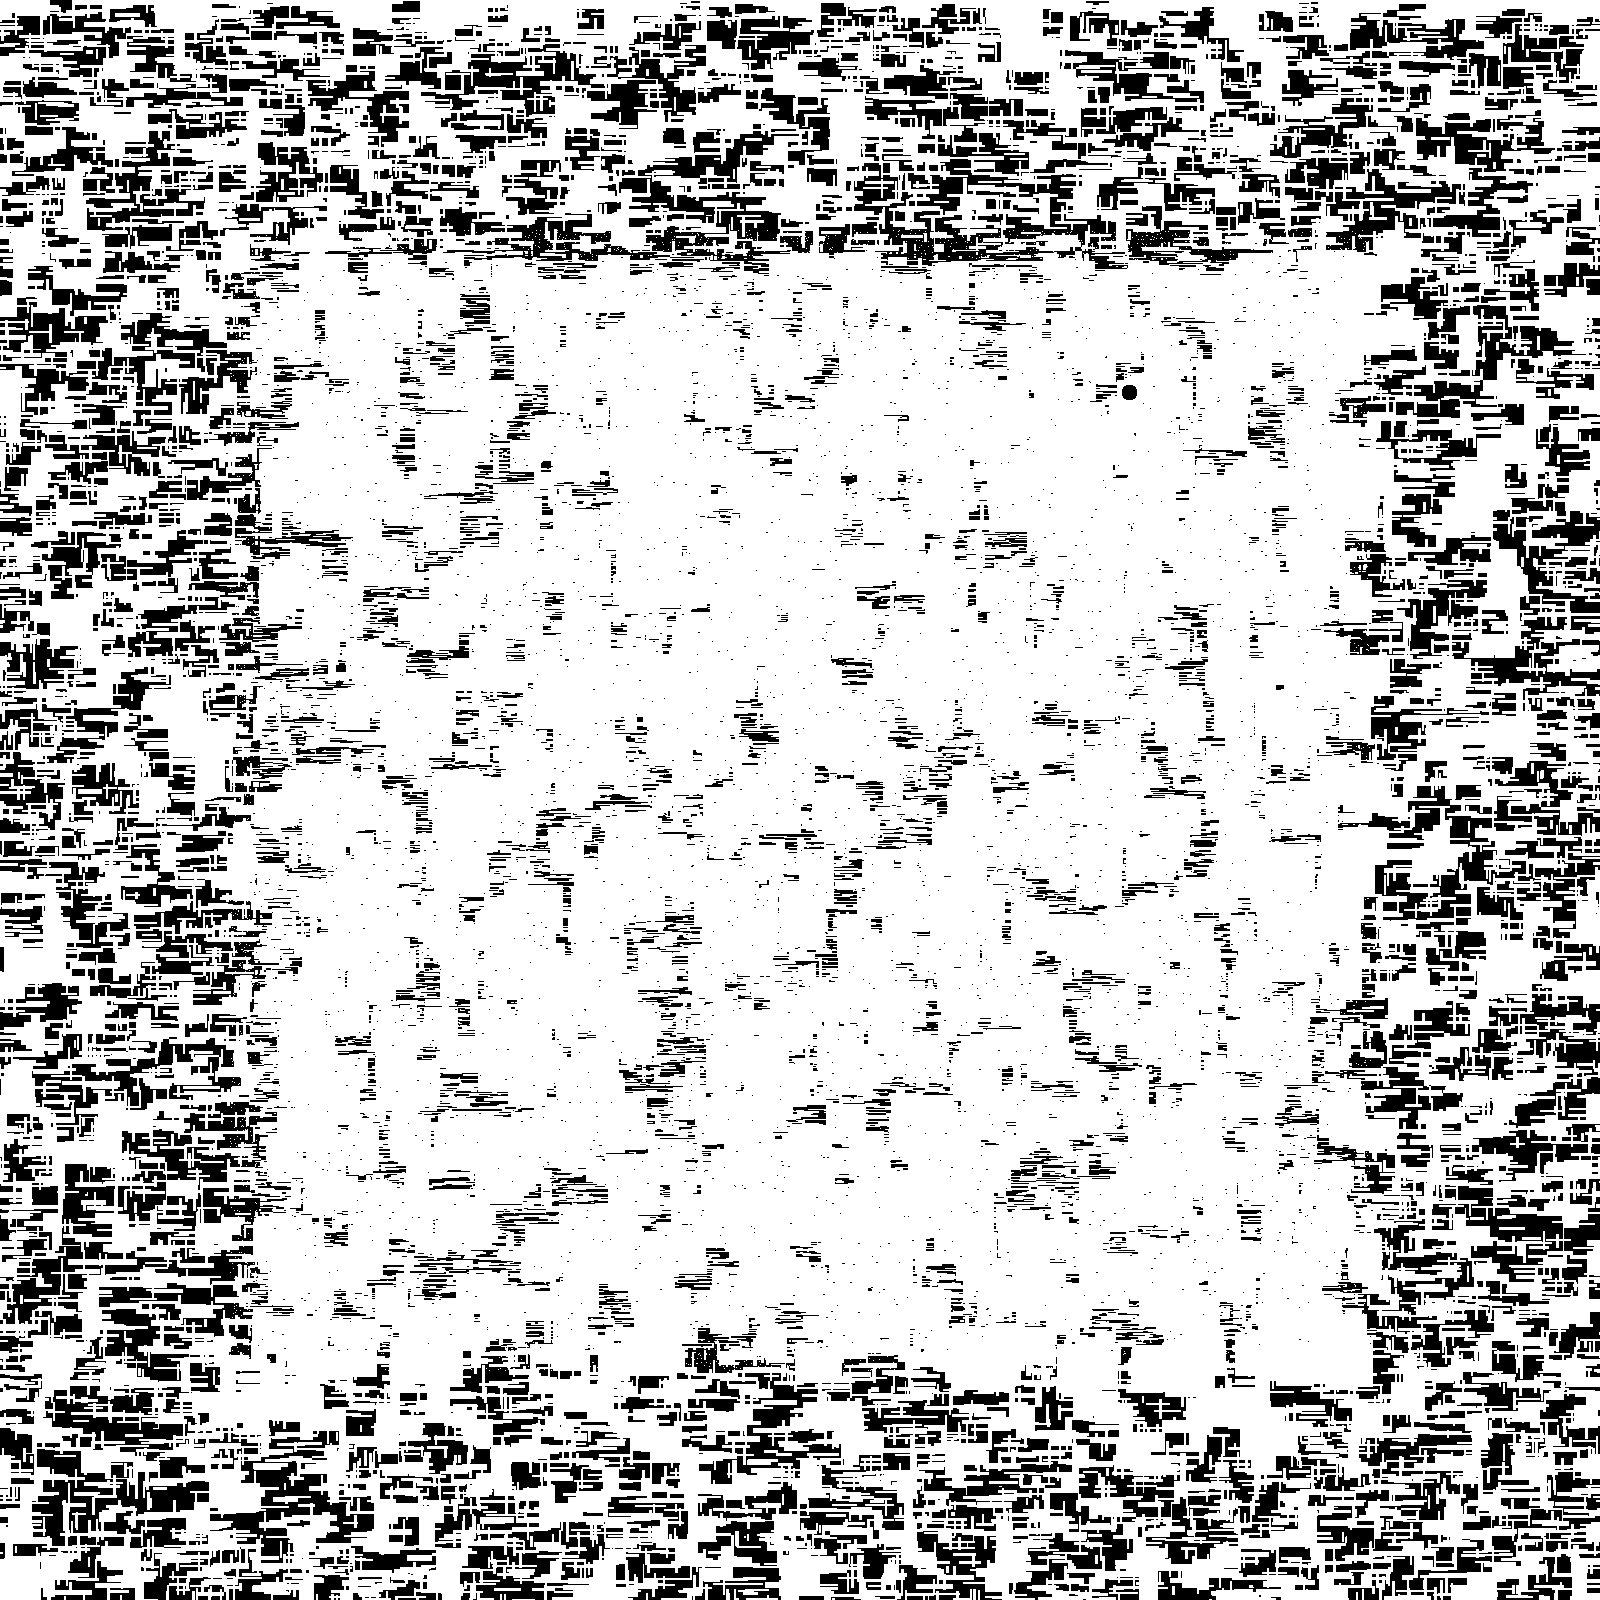
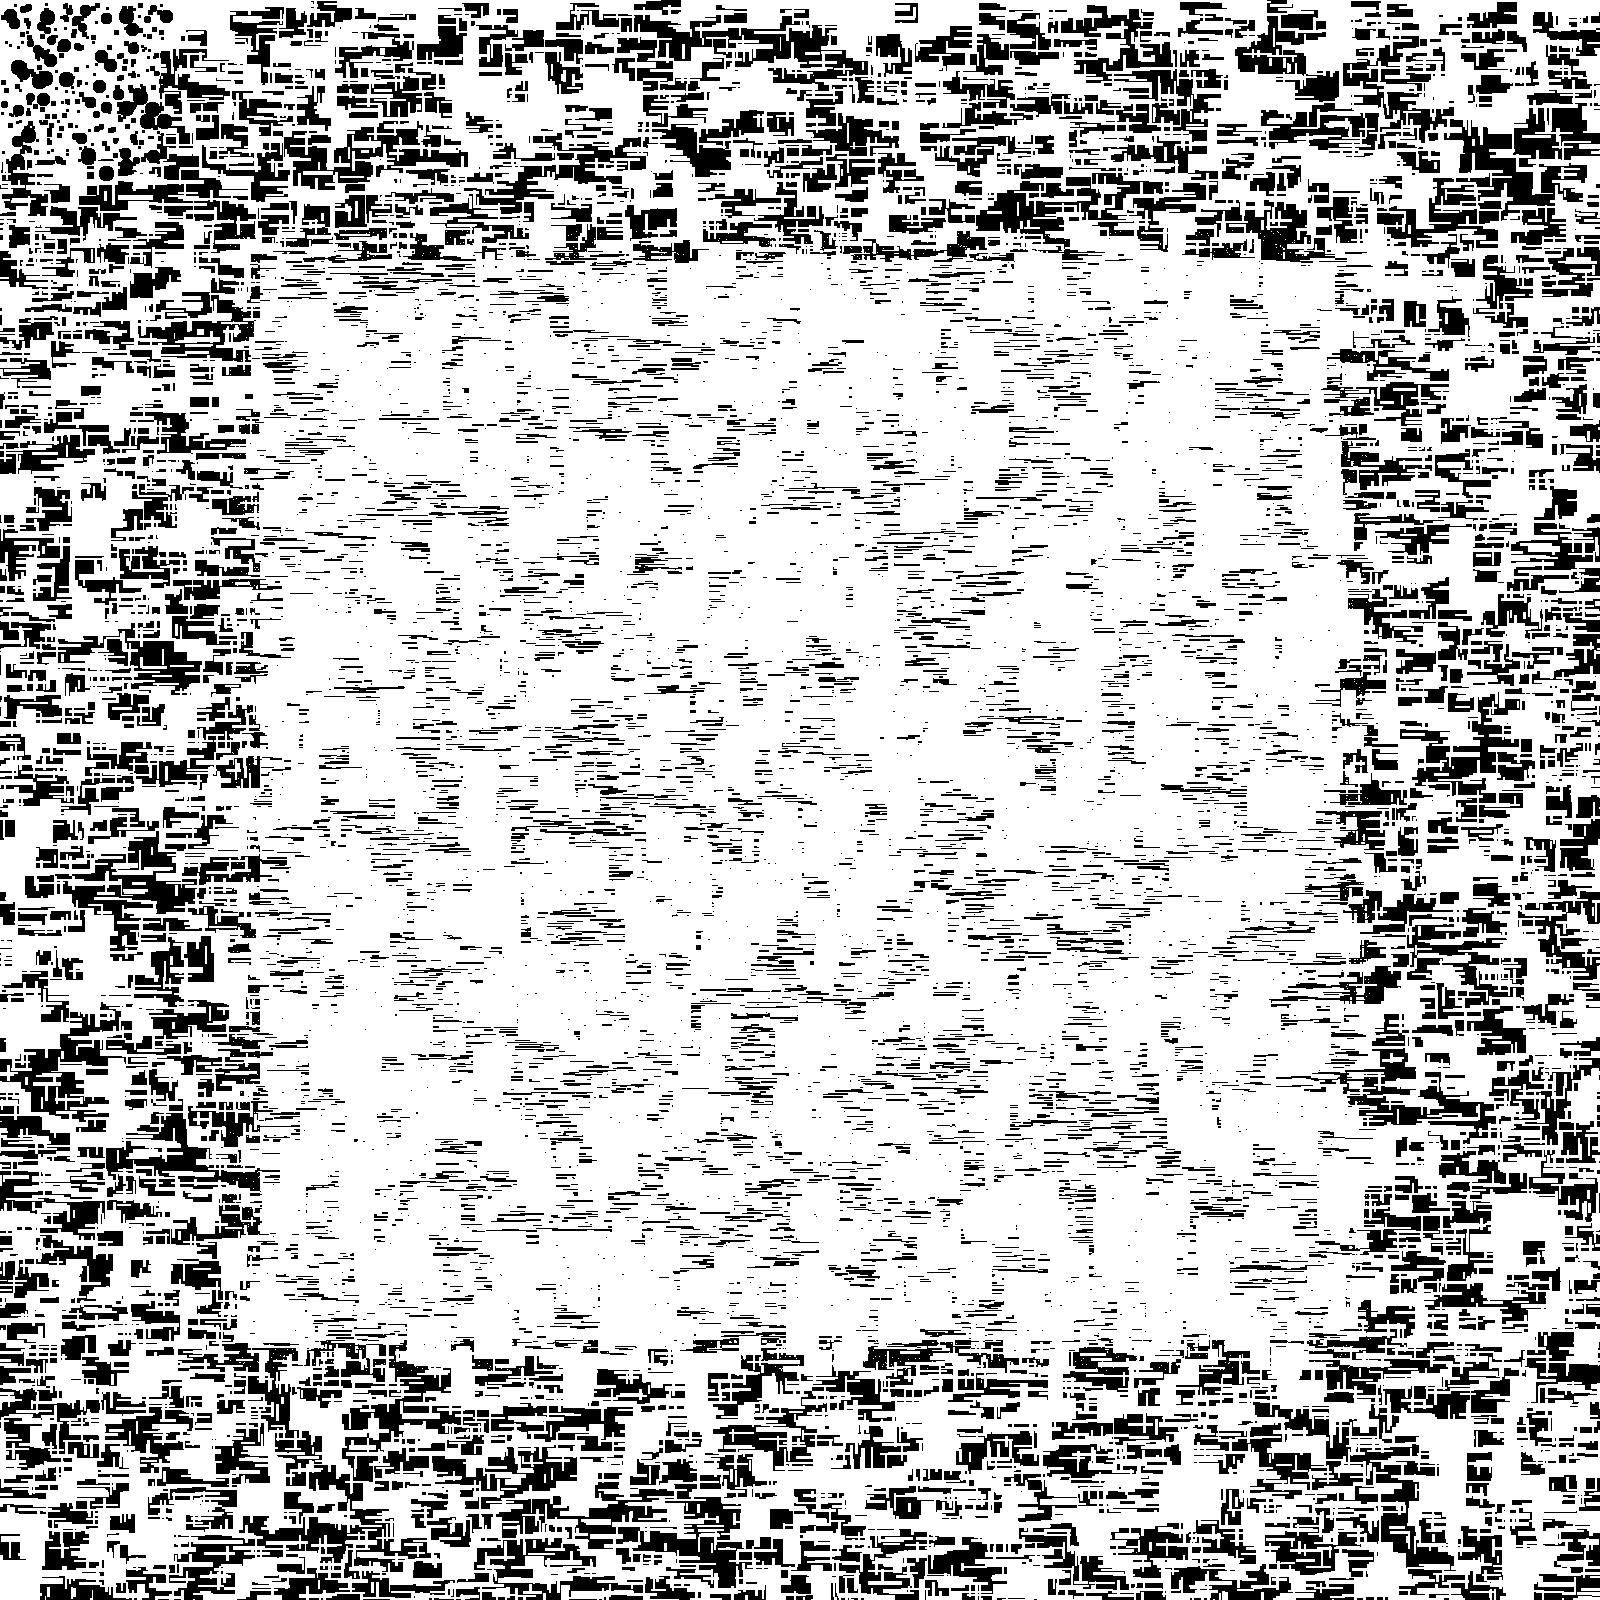
map changes

diff --git a/map.js b/map.js
@@ -55,7 +55,8 @@ exports.Map.prototype = {
   	this.map = [];
 	},
 	randomTerrain: function randomTerrain(numb, pos_xMin, pos_xMax, pos_yMin, pos_yMax, size_xMin, size_xMax, size_yMin, size_yMax, colourMin, colourMax) {
-		var num = Math.floor(this.mapSize/numb);
+		var TSize = (pos_xMax - pos_xMin)*(pos_yMax - pos_yMin);
+    var num = Math.floor(TSize/numb);
   	for (var y = 0; y < num; y++) {
   		var Position_x = Math.floor(Math.random()*(pos_xMax-pos_xMin+1)+pos_xMin);
   		var Position_y = Math.floor(Math.random()*(pos_yMax-pos_yMin+1)+pos_yMin);
@@ -96,6 +97,23 @@ exports.Map.prototype = {
   		}
   	}
 	},
+  circle: function circle(numb,pos_xMin, pos_xMax, pos_yMin, pos_yMax, circleRadiusMin, circleRadiusMax, colourMin, colourMax) {
+    var TSize = (pos_xMax - pos_xMin)*(pos_yMax - pos_yMin);
+    var num = Math.floor(TSize/numb);
+    for (var y = 0; y < num; y++) {    
+      var Position_x = Math.floor(Math.random()*(pos_xMax-pos_xMin+1)+pos_xMin);
+      var Position_y = Math.floor(Math.random()*(pos_yMax-pos_yMin+1)+pos_yMin);
+      var radius = Math.floor(Math.random()*(circleRadiusMax-circleRadiusMin)+circleRadiusMin);
+      for (var z = 0; z < 2*radius; z++){
+        for (var i = 0; i < 2*radius; i++){
+          if(Math.sqrt((z-radius)*(z-radius)+(i-radius)*(i-radius)) < radius){
+            var circleColour = Math.floor(Math.random()*(colourMax-colourMin)+colourMin);
+            this.map[Position_x+Position_y*ret+z+i*ret] = circleColour;
+          }
+        }
+      }
+    }
+  },
   ring: function ring(pos_xMin, pos_xMax, pos_yMin, pos_yMax, minRadius, maxRadius, colourMin, colourMax) {
     var Position_x = Math.floor(Math.random()*(pos_xMax-pos_xMin+1)+pos_xMin);
     var Position_y = Math.floor(Math.random()*(pos_yMax-pos_yMin+1)+pos_yMin);
@@ -137,25 +155,29 @@ exports.Map.prototype = {
     this.randomTerrain(750, 0, ret, 0, ret, 24, 38, 4, 6, 0, 0);
     this.randomTerrain(50, 230, ret-230, 230, ret-230, 1, 1, 1, 1, 0, 0);
     this.makeTerrain(260, 260, ret-520, ret-520, 0, 0);
+  //Fire Kingdom
+    this.makeTerrain(0, 0, 160, 160, 0, 0);
+    this.circle(300,0, 160, 0, 160, 2, 9, 17, 45);
+    this.circle(100,0, 160, 0, 160, 2, 4, 17, 45);
   // Center Part of the Map
   	this.randomTerrain(100,250, ret-250 ,250 , ret-250, 3, 30, 1, 2, 17, 45);
   	this.randomTerrain(1000,250, ret-250 ,250 , ret-250, 3, 30, 3, 30, 0, 0);
   	this.randomTerrain(700,250, ret-250 ,250 , ret-250, 1, 10, 1, 1, 17, 45);
-    this.randomTerrain(2500,250, ret-250 ,250 , ret-250, 30, 50, 30, 50, 0, 0); //Large Voids
+    this.randomTerrain(2500,250, ret-280 ,250 , ret-280, 30, 50, 30, 50, 0, 0); //Large Voids
     this.randomTerrain(1000,250, ret-250 ,250 , ret-250, 1, 2, 1, 1, 17, 45);
   //Corner Colours
     this.colouring(0.3, 0, 250, 0, 250, 1, 4);
     this.colouring(0.6, 0, 175, 0, 175, 1, 4);
     this.colouring(1, 0, 100, 0, 100, 1, 4);
-    this.colouring(0.3, ret-250, ret, 0, 250, 31, 34);
-    this.colouring(0.6, ret-175, ret, 0, 175, 31, 34);
+    this.colouring(0.3, ret-250, ret-1, 0, 250, 31, 34);
+    this.colouring(0.6, ret-175, ret-1, 0, 175, 31, 34);
     this.colouring(1, ret-100, ret, 0, 100, 31, 34);
-    this.colouring(0.3, ret-250, ret, ret-250, ret, 59, 63);
-    this.colouring(0.6, ret-175, ret, ret-175, ret, 59, 63);
-    this.colouring(1, ret-100, ret, ret-100, ret, 59, 63);
-    this.colouring(0.3, 0, 250, ret-250, ret, 55, 59);
-    this.colouring(0.6, 0, 175, ret-175, ret, 55, 59);
-    this.colouring(1, 0, 100, ret-100, ret, 55, 59);
+    this.colouring(0.3, ret-250, ret-1, ret-250, ret-1, 59, 63);
+    this.colouring(0.6, ret-175, ret-1, ret-175, ret-1, 59, 63);
+    this.colouring(1, ret-100, ret-1, ret-100, ret-1, 59, 63);
+    this.colouring(0.3, 0, 250, ret-250, ret-1, 55, 59);
+    this.colouring(0.6, 0, 175, ret-175, ret-1, 55, 59);
+    this.colouring(1, 0, 100, ret-100, ret-1, 55, 59);
     //Testing Room lower left corner
     var testRoomSize = 40
     this.makeTerrain(0, ret-testRoomSize, testRoomSize, testRoomSize, 0, 0);

diff --git a/server.js b/server.js
@@ -130,4 +130,4 @@ function writeImg() {
     img.pack().pipe(fs.createWriteStream('out.png'));
 }
 
-// writeImg();
+ writeImg();
